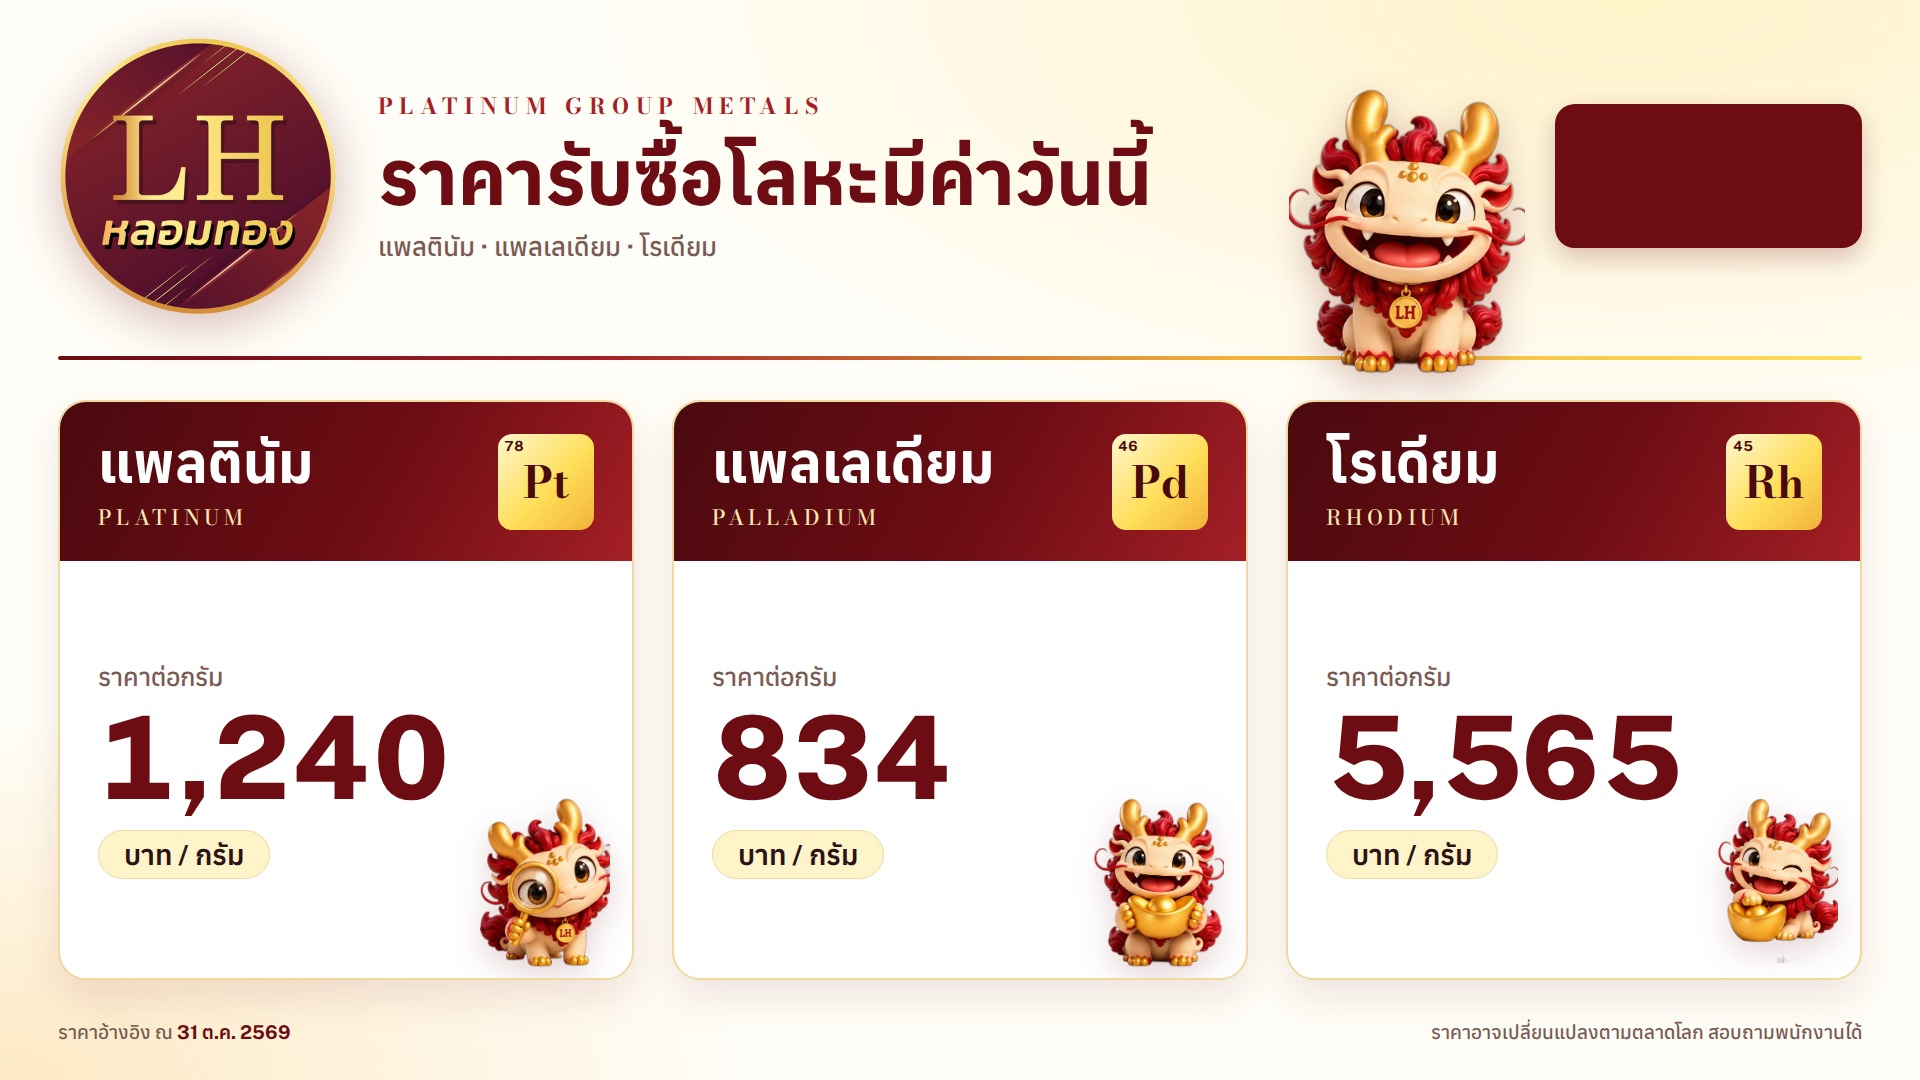
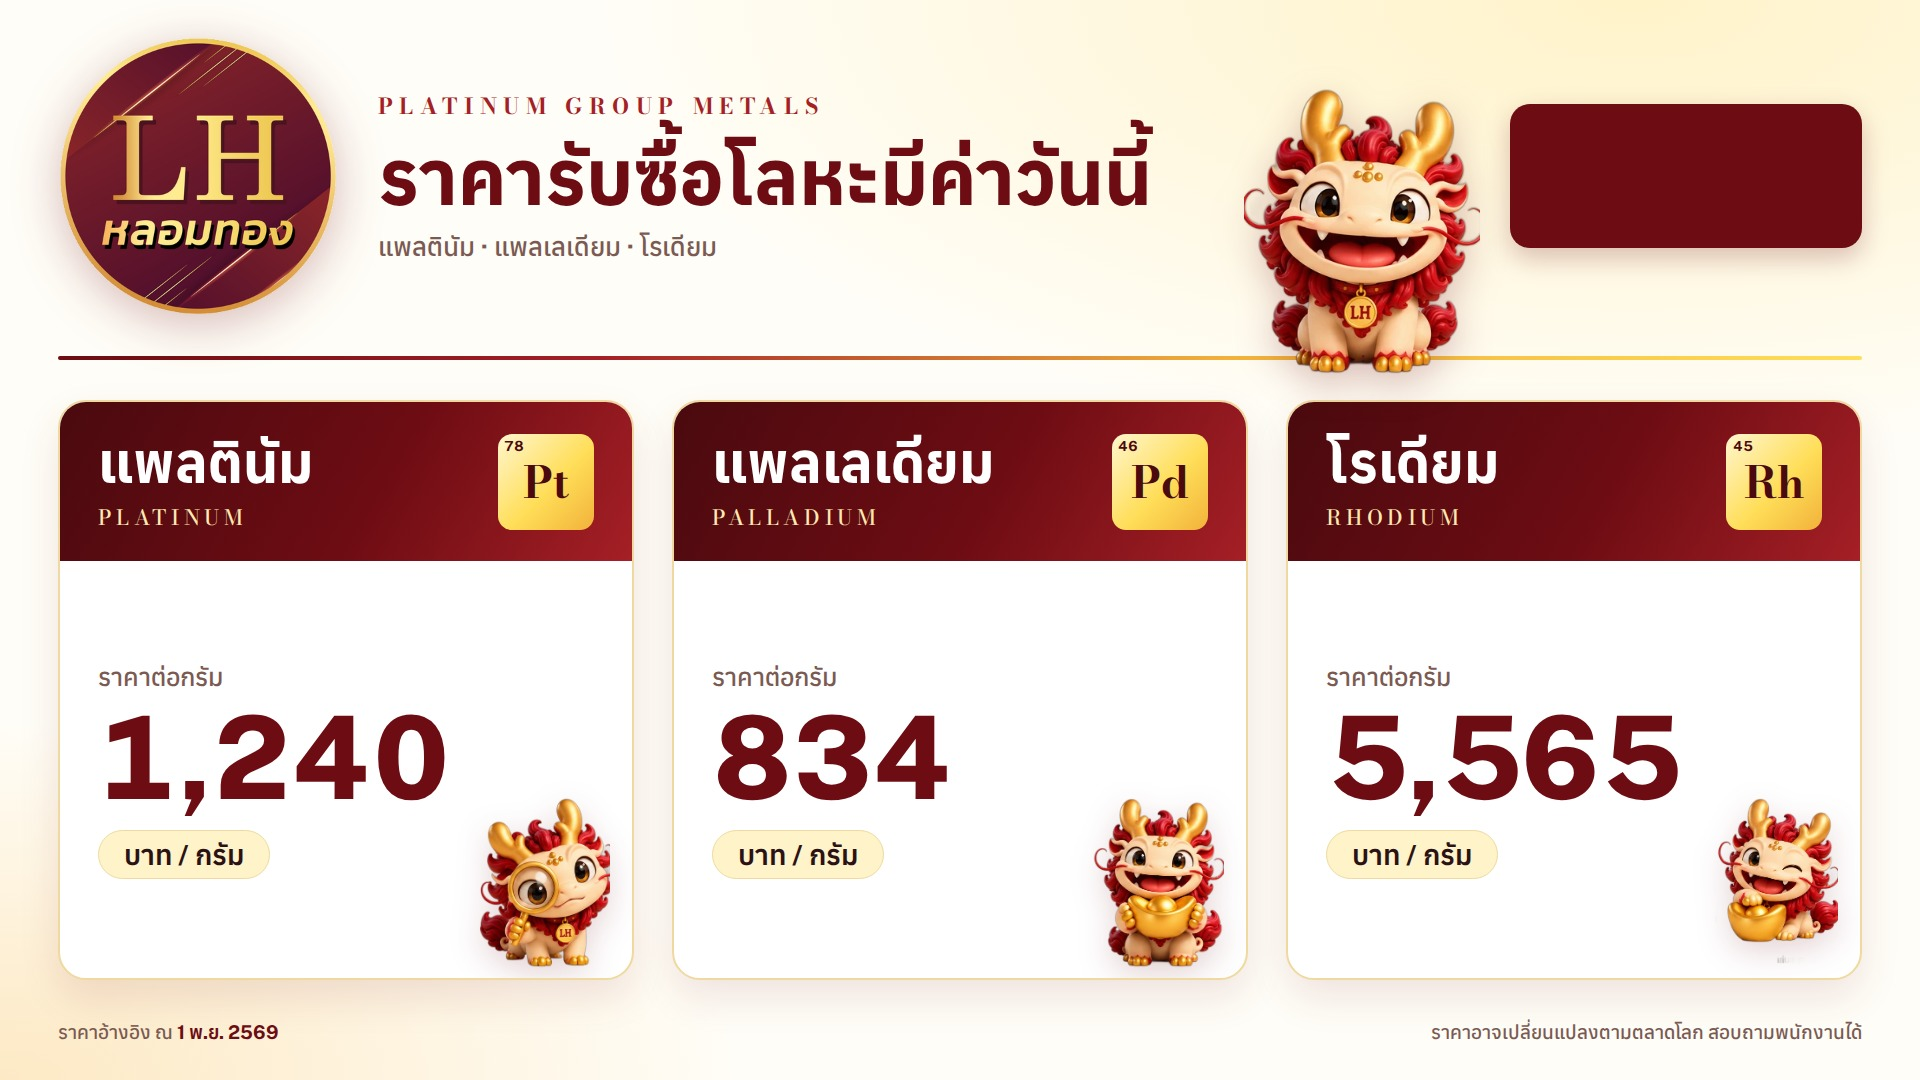
Update prices 2026-11-01

Changed region(s): [[0.625, 0.0611, 0.8125, 0.3667], [0.0938, 0.9472, 0.1562, 0.9778]]

diff --git a/board.html b/board.html
@@ -219,7 +219,7 @@ html{-webkit-text-size-adjust:100%;text-size-adjust:100%}
      ราคาแต่ละเกรด = ราคาเงินหลังหัก × เปอร์เซ็นต์ (99.99% ใช้ราคาเต็ม)
    showSilver = เปิด/ปิดหน้าราคาเงิน, rotateSeconds = เปลี่ยนหน้าทุกกี่วินาที */
 const CONFIG = {
-  asOf: "31 ต.ค. 2569",
+  asOf: "1 พ.ย. 2569",
   fx: 33.74,
   discount: 0.20,
   rotateSeconds: 15,
